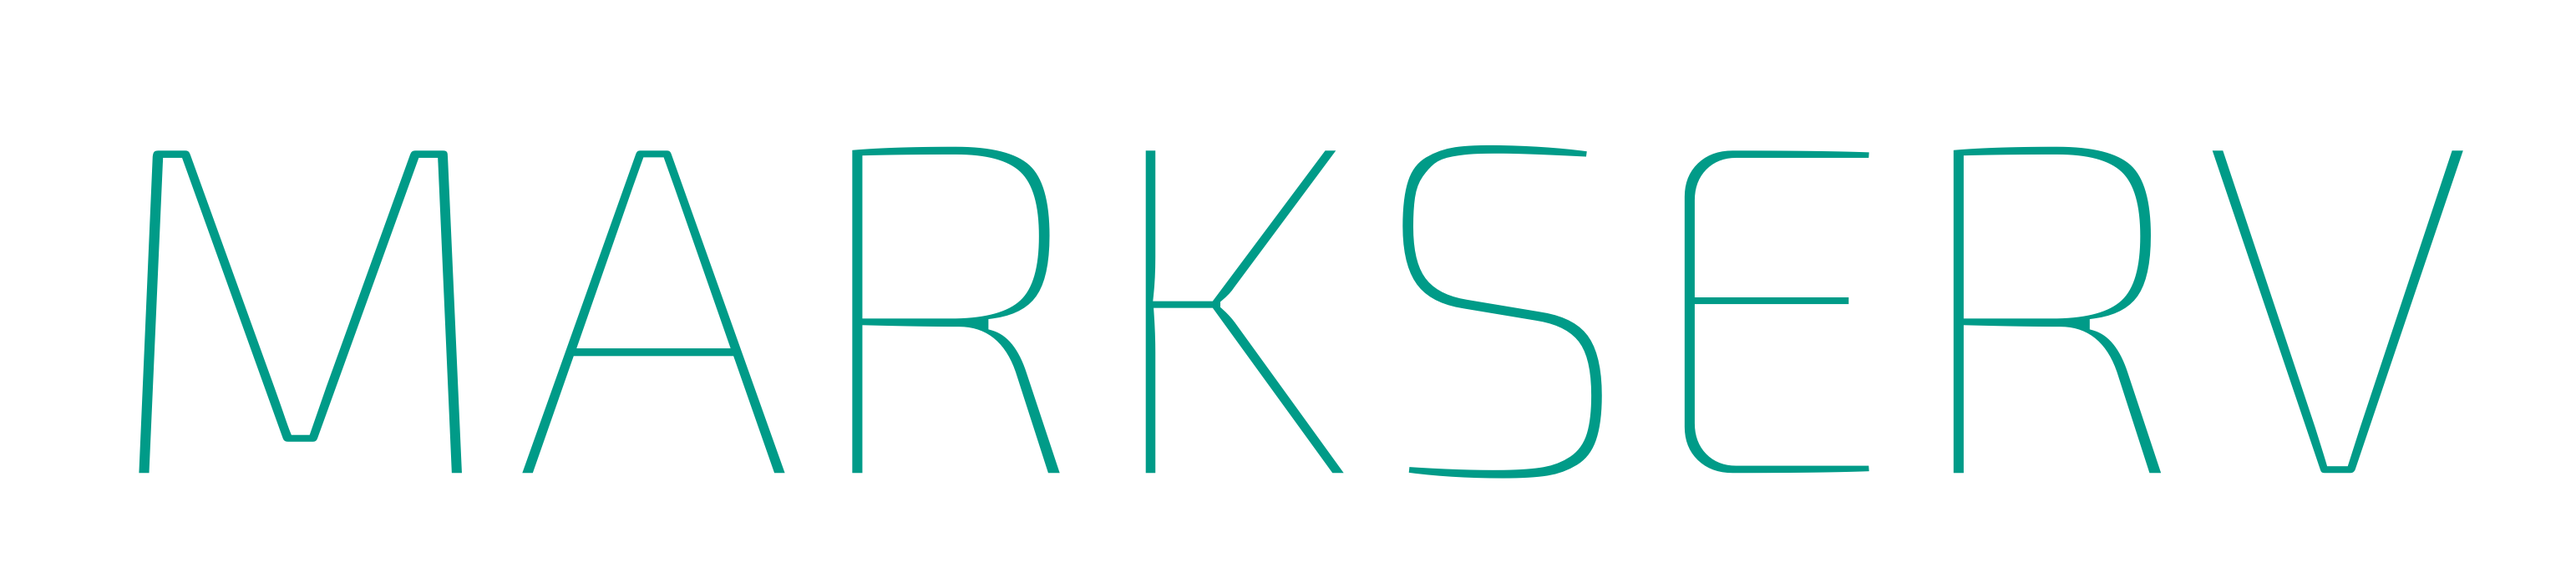
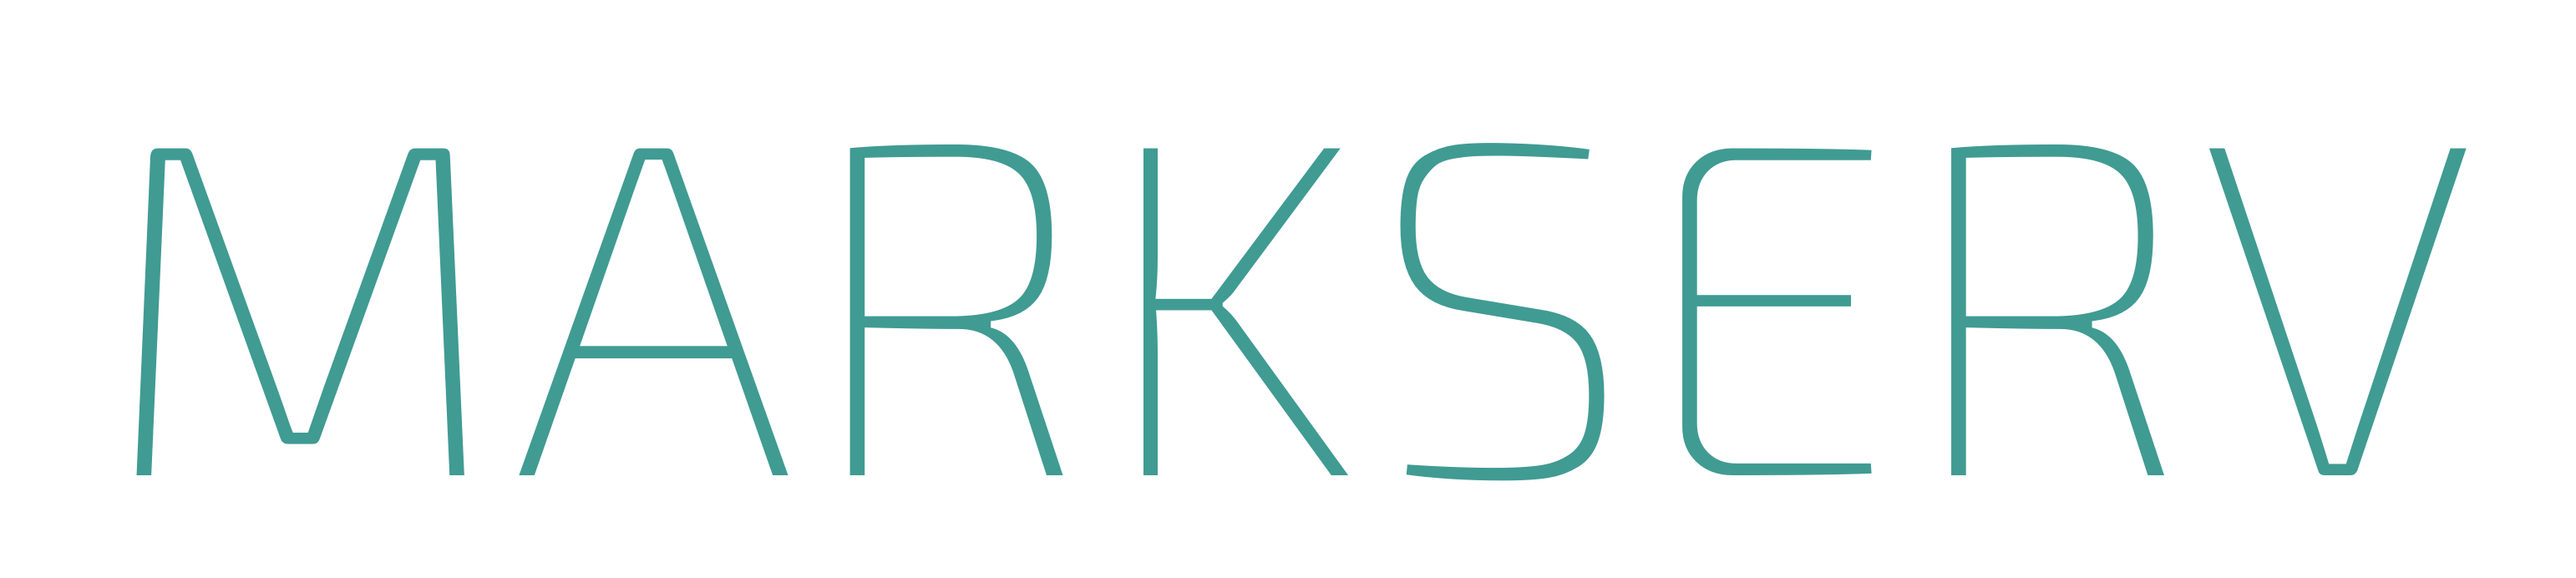
Fix word mark file

diff --git a/README.md b/README.md
@@ -2,7 +2,7 @@
 	<img alt="Markserv Logo" src="media/markserv-logo.png" width="188"/>
 </p>
 <p align="center">
-	<img alt="Markserv Word Mark" src="media/markserv-word-mark.png" width="380"/>
+	<img alt="Markserv Word Mark" src="media/markserv-word-mark.png" width="360"/>
 </p>
 
 > 🏁 serve markdown as html (GitHub style), index directories, and live-reload as you edit
